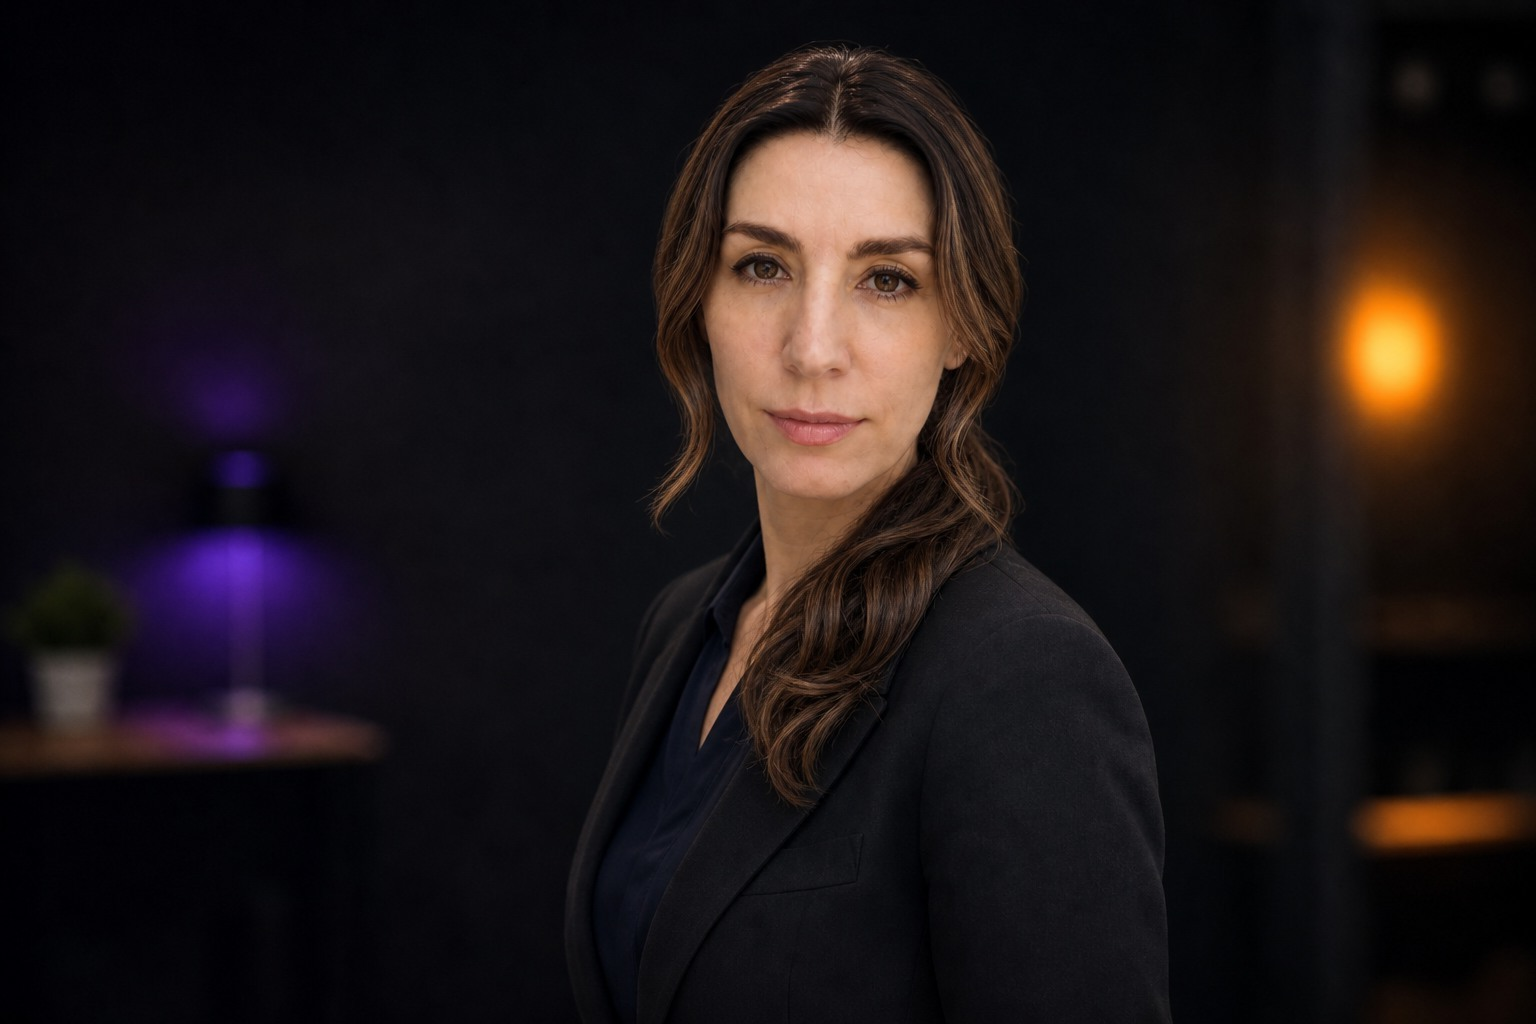
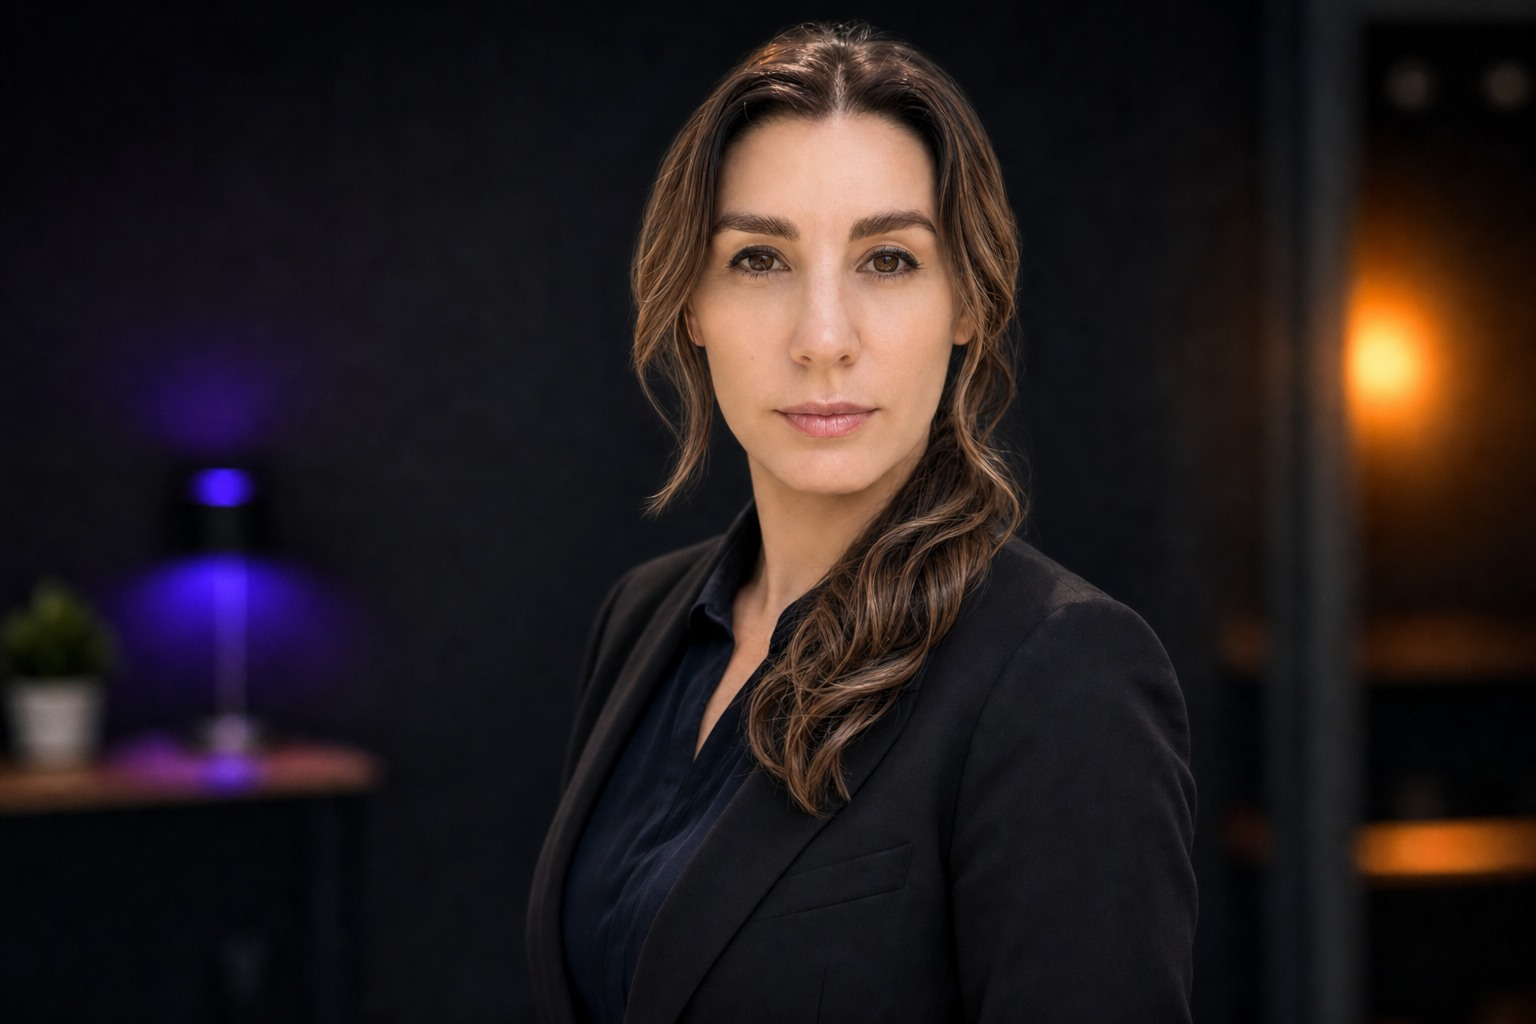
Поработала с фото

diff --git a/index.html b/index.html
@@ -48,7 +48,7 @@
           <div class="hero__headline">
             <h1 class="hero__title" id="hero-title" data-split-text data-split-delay="35" data-split-duration="1.1">Я делаю сайты, интерфейсы и digital-проекты, которые выглядят как <em>вайб</em>, а работают как система</h1>
             <figure class="hero__portrait">
-              <img src="portfolio-portrait.png?v=3" alt="Портрет — Vibe Coder" width="1536" height="1024" loading="eager" decoding="async" fetchpriority="high">
+              <img src="portfolio-portrait.png?v=6" alt="Портрет — Vibe Coder" width="1536" height="1024" loading="eager" decoding="async" fetchpriority="high">
             </figure>
           </div>
           <p class="hero__subtitle">
